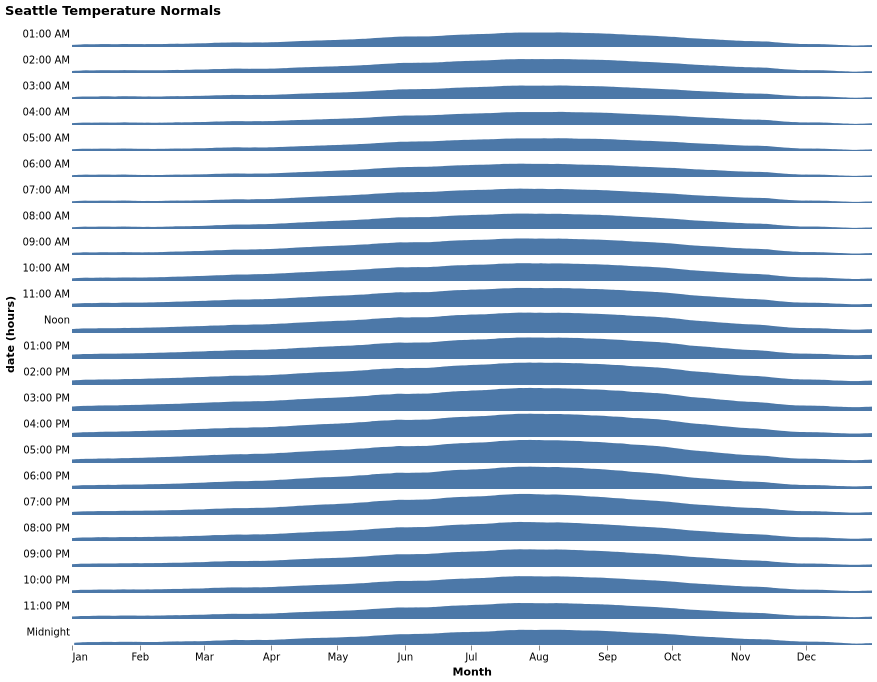
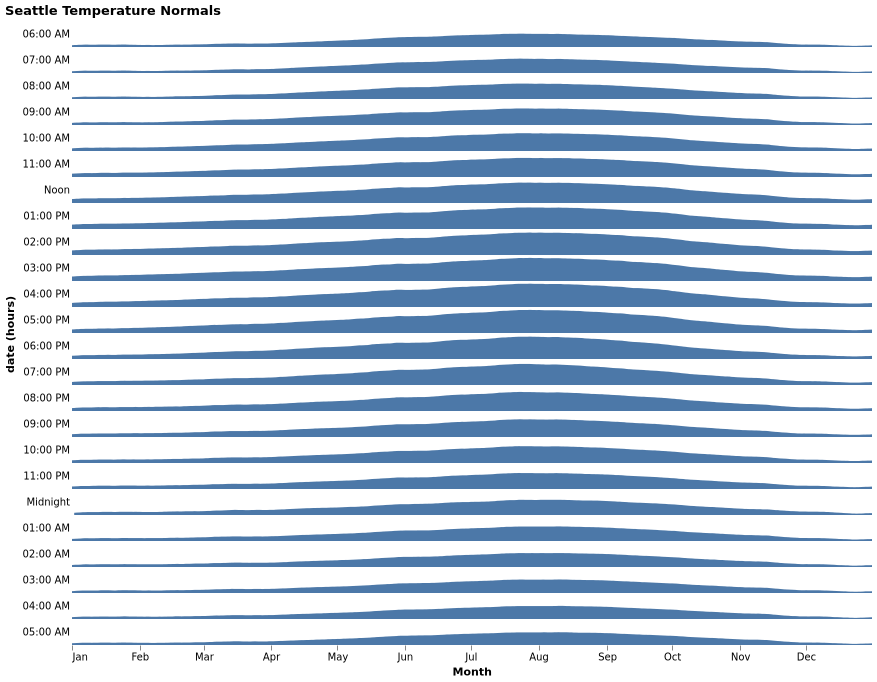
fix: apply facet sort order correctly in presence of an aggregate (#9920)
Fixes #5366

Claude-Session: https://claude.ai/code/session_01N2d2Luh3ikaYt5quKJhb1Y

diff --git a/test/compile/data/subtree.test.ts b/test/compile/data/subtree.test.ts
@@ -1,0 +1,147 @@
+import {Data, GroupMark} from 'vega';
+import {compile} from '../../../src/compile/compile.js';
+
+function findData(data: readonly Data[], name: string): Data {
+  const d = data.find((datum) => datum.name === name);
+  expect(d).toBeDefined();
+  return d;
+}
+
+describe('compile/data/subtree', () => {
+  describe('moveFacetDown', () => {
+    it('should move the facet below an aggregate without a custom sort', () => {
+      const {spec} = compile({
+        data: {url: 'data/cars.json'},
+        mark: 'bar',
+        encoding: {
+          row: {field: 'Origin', type: 'nominal'},
+          x: {field: 'Horsepower', type: 'quantitative', aggregate: 'mean'},
+        },
+      });
+
+      const source = findData(spec.data, 'source_0');
+      expect(source.transform).toEqual([
+        {
+          type: 'aggregate',
+          groupby: ['Origin'],
+          ops: ['mean'],
+          fields: ['Horsepower'],
+          as: ['mean_Horsepower'],
+        },
+        expect.objectContaining({type: 'filter'}),
+      ]);
+    });
+
+    it('should preserve the sort index through an aggregate below the facet', () => {
+      const {spec} = compile({
+        data: {url: 'data/cars.json'},
+        mark: 'bar',
+        encoding: {
+          row: {field: 'Origin', type: 'nominal', sort: ['Japan', 'Europe', 'USA']},
+          x: {field: 'Horsepower', type: 'quantitative', aggregate: 'mean'},
+        },
+      });
+
+      const source = findData(spec.data, 'source_0');
+      expect(source.transform).toEqual([
+        {
+          type: 'formula',
+          expr: 'datum["Origin"]==="Japan" ? 0 : datum["Origin"]==="Europe" ? 1 : datum["Origin"]==="USA" ? 2 : 3',
+          as: 'row_Origin_sort_index',
+        },
+        {
+          type: 'aggregate',
+          groupby: ['Origin', 'row_Origin_sort_index'],
+          ops: ['mean'],
+          fields: ['Horsepower'],
+          as: ['mean_Horsepower'],
+        },
+        expect.objectContaining({type: 'filter'}),
+      ]);
+
+      expect(findData(spec.data, 'row_domain')).toEqual({
+        name: 'row_domain',
+        source: 'source_0',
+        transform: [
+          {
+            type: 'aggregate',
+            groupby: ['Origin'],
+            fields: ['row_Origin_sort_index'],
+            ops: ['max'],
+            as: ['row_Origin_sort_index'],
+          },
+        ],
+      });
+    });
+
+    it('should not move the facet below an aggregate when sorting by a sort field definition', () => {
+      const {spec} = compile({
+        data: {url: 'data/cars.json'},
+        mark: 'bar',
+        encoding: {
+          row: {field: 'Origin', type: 'nominal', sort: {field: 'Acceleration', op: 'median'}},
+          x: {field: 'Horsepower', type: 'quantitative', aggregate: 'mean'},
+        },
+      });
+
+      const source = findData(spec.data, 'source_0');
+      expect(source.transform).toBeUndefined();
+
+      expect(findData(spec.data, 'row_domain')).toEqual({
+        name: 'row_domain',
+        source: 'source_0',
+        transform: [
+          {
+            type: 'aggregate',
+            groupby: ['Origin'],
+            fields: ['Acceleration'],
+            ops: ['median'],
+            as: ['median_Acceleration'],
+          },
+        ],
+      });
+
+      const cell = spec.marks.find((mark) => mark.name === 'cell') as GroupMark;
+      expect(cell.data[0]).toEqual({
+        name: 'data_0',
+        source: 'facet',
+        transform: [
+          {
+            type: 'aggregate',
+            groupby: [],
+            ops: ['mean'],
+            fields: ['Horsepower'],
+            as: ['mean_Horsepower'],
+          },
+          expect.objectContaining({type: 'filter'}),
+        ],
+      });
+    });
+
+    it('should not move the facet below an aggregate when sorting a binned facet by an array', () => {
+      const {spec} = compile({
+        data: {url: 'data/cars.json'},
+        mark: 'bar',
+        encoding: {
+          row: {bin: true, field: 'Acceleration', type: 'quantitative', sort: [12, 8]},
+          x: {field: 'Horsepower', type: 'quantitative', aggregate: 'mean'},
+        },
+      });
+
+      // the sort index is derived from the unbinned values, so it cannot be added to the
+      // aggregate's groupby therefore, the must facet stays above the aggregate
+      const source = findData(spec.data, 'source_0');
+      expect(source.transform.map((t) => t.type)).toEqual(['extent', 'bin', 'formula']);
+
+      expect(findData(spec.data, 'row_domain').transform).toEqual([
+        {
+          type: 'aggregate',
+          groupby: ['bin_maxbins_6_Acceleration', 'bin_maxbins_6_Acceleration_end'],
+          fields: ['row_bin_maxbins_6_Acceleration_sort_index'],
+          ops: ['max'],
+          as: ['row_bin_maxbins_6_Acceleration_sort_index'],
+        },
+      ]);
+    });
+  });
+});

diff --git a/test/compile/data/facet.test.ts b/test/compile/data/facet.test.ts
@@ -307,6 +307,88 @@ describe('compile/data/facet', () => {
     });
   });
 
+  describe('sortIndexFields', () => {
+    it('should return the sort index fields of array-sorted channels', () => {
+      const model = parseFacetModelWithScale({
+        $schema: 'https://vega.github.io/schema/vega-lite/v6.json',
+        data: {
+          name: 'a',
+        },
+        facet: {
+          row: {field: 'r', type: 'nominal', sort: {op: 'median', field: 'b'}},
+          column: {field: 'c', type: 'nominal', sort: [1, 2, 3]},
+        },
+        spec: {
+          mark: 'rect',
+          encoding: {
+            y: {field: 'b', type: 'quantitative'},
+            x: {field: 'a', type: 'quantitative'},
+          },
+        },
+      });
+
+      const facet = new FacetNode(null, model, 'facetName', 'dataName');
+
+      expect(facet.sortIndexFields).toEqual(['column_c_sort_index']);
+    });
+  });
+
+  describe('canMoveBelowAggregate', () => {
+    function facetNodeForFacet(facet: any) {
+      const model = parseFacetModelWithScale({
+        $schema: 'https://vega.github.io/schema/vega-lite/v6.json',
+        data: {
+          name: 'a',
+        },
+        facet,
+        spec: {
+          mark: 'rect',
+          encoding: {
+            y: {field: 'b', type: 'quantitative'},
+            x: {field: 'a', type: 'quantitative'},
+          },
+        },
+      });
+
+      return new FacetNode(null, model, 'facetName', 'dataName');
+    }
+
+    it('should be true without a custom sort', () => {
+      const facet = facetNodeForFacet({
+        row: {field: 'r', type: 'nominal'},
+        column: {field: 'c', type: 'nominal', sort: 'descending'},
+      });
+
+      expect(facet.canMoveBelowAggregate).toBe(true);
+    });
+
+    it('should be true with sort arrays on unbinned fields', () => {
+      const facet = facetNodeForFacet({
+        row: {field: 'r', type: 'nominal', sort: ['r1', 'r2']},
+        column: {field: 'c', type: 'nominal', sort: [1, 2, 3]},
+      });
+
+      expect(facet.canMoveBelowAggregate).toBe(true);
+    });
+
+    it('should be false with a sort field definition', () => {
+      const facet = facetNodeForFacet({
+        row: {field: 'r', type: 'nominal', sort: {op: 'median', field: 'b'}},
+        column: {field: 'c', type: 'nominal', sort: [1, 2, 3]},
+      });
+
+      expect(facet.canMoveBelowAggregate).toBe(false);
+    });
+
+    it('should be false with a sort array on a binned field', () => {
+      const facet = facetNodeForFacet({
+        row: {bin: true, field: 'r', type: 'quantitative', sort: [1, 2, 3]},
+      });
+
+      expect(facet.canMoveBelowAggregate).toBe(false);
+    });
+  });
+
   describe('hash', () => {
     it('should generate the correct hash', () => {
       const model = parseFacetModelWithScale({

diff --git a/src/compile/data/subtree.ts b/src/compile/data/subtree.ts
@@ -41,13 +41,26 @@ function cloneSubtree(facet: FacetNode) {
 }
 
 /**
+ * Checks whether facet node can swap with the given child to move further down the dataflow.
+ */
+function canMoveFacetBelow(facet: FacetNode, child: DataFlowNode): boolean {
+  if (child instanceof OutputNode) {
+    return false;
+  }
+  if (child instanceof AggregateNode) {
+    return facet.canMoveBelowAggregate;
+  }
+  return true;
+}
+
+/**
  * Move facet nodes down to the next fork or output node. Also pull the main output with the facet node.
  * After moving down the facet node, make a copy of the subtree and make it a child of the main output.
  */
 export function moveFacetDown(node: DataFlowNode) {
   if (node instanceof FacetNode) {
-    if (node.numChildren() === 1 && !(node.children[0] instanceof OutputNode)) {
-      // move down until we hit a fork or output node
+    if (node.numChildren() === 1 && canMoveFacetBelow(node, node.children[0])) {
+      // move down until we hit a fork, an output node, or an aggregate that would break sorting
       const child = node.children[0];
 
       if (
@@ -57,6 +70,11 @@ export function moveFacetDown(node: DataFlowNode) {
         child instanceof JoinAggregateTransformNode
       ) {
         child.addDimensions(node.fields);
+
+        if (child instanceof AggregateNode) {
+          // also group by the sort index fields so that the aggregate does not drop them
+          child.addDimensions(node.sortIndexFields);
+        }
       }
 
       child.swapWithParent();

diff --git a/src/compile/data/facet.ts b/src/compile/data/facet.ts
@@ -120,6 +120,34 @@ export class FacetNode extends DataFlowNode {
     return f;
   }
 
+  /**
+   * The sort index fields of the facet channels that are sorted by an array.
+   */
+  public get sortIndexFields(): string[] {
+    const fields: string[] = [];
+
+    for (const channel of FACET_CHANNELS) {
+      const sortIndexField = this[channel]?.sortIndexField;
+      if (sortIndexField) {
+        fields.push(sortIndexField);
+      }
+    }
+    return fields;
+  }
+
+  public get canMoveBelowAggregate(): boolean {
+    for (const channel of FACET_CHANNELS) {
+      const info = this[channel];
+      if (!info) {
+        continue;
+      }
+      if (info.sortField || (info.sortIndexField && isBinning(this.model.facet[channel].bin))) {
+        return false;
+      }
+    }
+    return true;
+  }
+
   public dependentFields() {
     const depFields = new Set<string>(this.fields);
 
